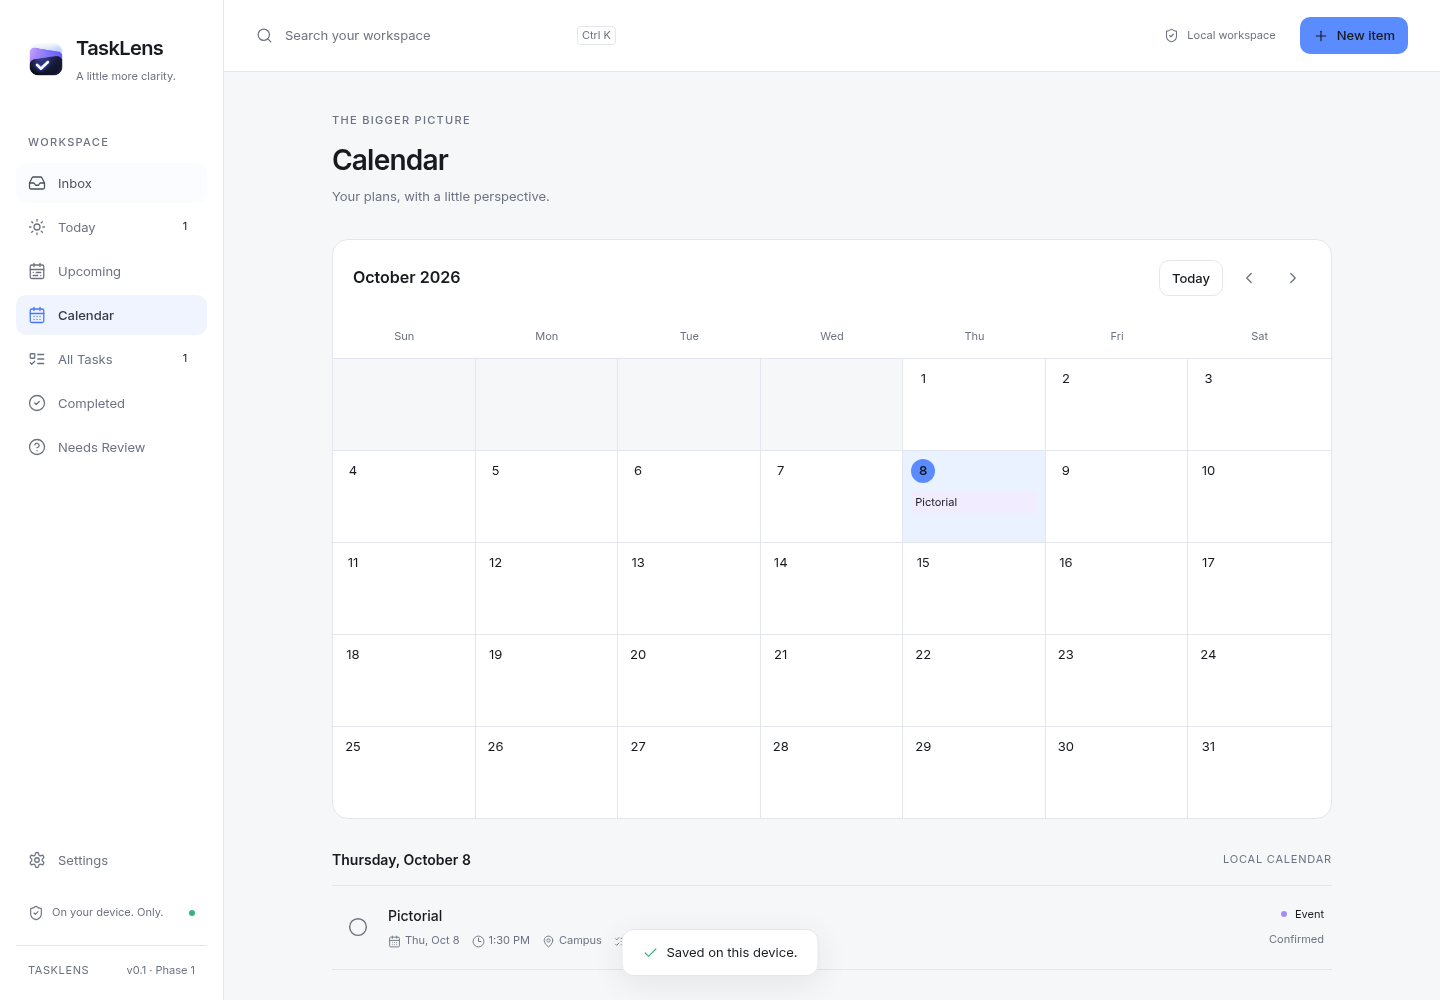
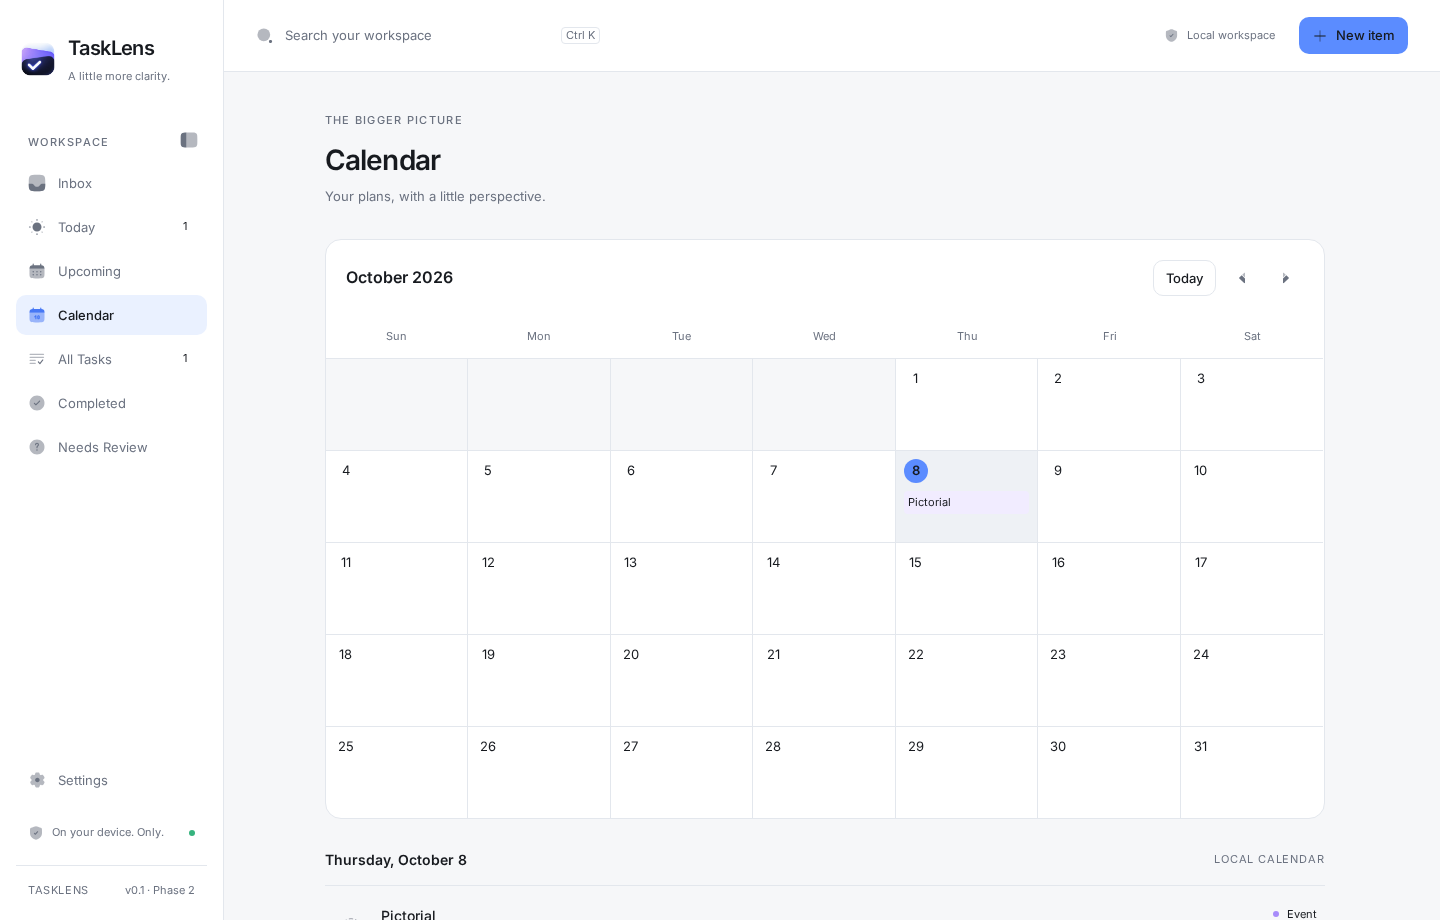
docs: refresh TaskLens overview and current application screenshots

diff --git a/RELEASE_CHECKLIST.md b/RELEASE_CHECKLIST.md
@@ -2,31 +2,31 @@
 
 Base: `374f692afe22de55bb80472035006e67919ddf44`. **NOT READY.** PASS means an executed check; NOT RUN is not acceptance. This checklist is updated with isolated-worktree results below. Historical shared-worktree checks are not substituted for current candidate evidence.
 
-| Gate                                                       | Status  | Evidence / next action                                                                                                                                                                                                     |
-| ---------------------------------------------------------- | ------- | -------------------------------------------------------------------------------------------------------------------------------------------------------------------------------------------------------------------------- |
-| Git history and scoped tree secret scans                   | PASS    | Gitleaks 8.30.1, zero findings; final candidate scan recorded below                                                                                                                                                        |
-| npm dependency audit                                       | PASS    | Vitest 4.1.12 graph, zero vulnerabilities                                                                                                                                                                                  |
-| Cargo dependency security                                  | FAIL    | Zero vulnerabilities but eight unresolved advisory warnings, including unsound glib                                                                                                                                        |
-| TypeScript / ESLint / formatting                           | PASS    | Isolated `npm run check`, `format:check`; Rust fmt also passed                                                                                                                                                             |
-| Unit / Rust / release / asset tests                        | PASS    | 144 unit passed after integration, 2 opt-in skipped; 76 Rust passed, 8 ignored; 2 release and 3 asset tests passed                                                                                                         |
-| Full browser suite                                         | FAIL    | Audit run: 68 passed, 29 failed in 21.1 minutes on port 1492 under concurrent build load. Restart test separately passed on standard port 1420. Other failures unresolved.                                                 |
-| Production frontend build / docs links                     | PASS    | Vite production build; local links in 58 Markdown files validated                                                                                                                                                          |
-| Asset integrity and licensing                              | PASS    | `verify:assets`: 3,062,001,808 bytes, pinned hashes/runtime receipt and dependency checks; notices present in inspected historical RPM                                                                                     |
-| Native Qwen extraction                                     | FAIL    | Real simple-English probe: MODEL_LOAD_FAILED, 206,284 ms load                                                                                                                                                              |
-| Current multilingual extraction                            | NOT RUN | Historical 110/128 checks retained; not current acceptance                                                                                                                                                                 |
-| Real Groq key/requests/latency                             | NOT RUN | Explicit test key unavailable; no production credential borrowed                                                                                                                                                           |
-| Fedora native app and credential acceptance                | PASS    | 12 native app checks passed; synthetic Secret Service write/read/remove/absence across processes passed; real OCR smoke passed. No live extraction.                                                                        |
-| Current native voice/inference and clean installer restart | NOT RUN | Browser/sample save and native sidebar restart do not prove real voice extraction or fresh installation                                                                                                                    |
-| Windows installer / credential / reminders                 | NOT RUN | Windows host unavailable                                                                                                                                                                                                   |
-| Fedora fresh install / uninstall / offline startup         | NOT RUN | Disposable clean system acceptance required                                                                                                                                                                                |
-| Physical touchpad / assistive technology                   | NOT RUN | Device-assisted acceptance required                                                                                                                                                                                        |
-| Production packages                                        | PASS    | Clean audit commit f0f1c60 built RPM (3,132,677,361 bytes) and AppImage (3,024,558,584 bytes), split manifests and SHA256SUMS. Published guided-tour main was integrated later; packages do not match that newer frontend. |
-| Final integrated-commit installer acceptance               | NOT RUN | Rebuild and clean-install final chosen release commit                                                                                                                                                                      |
-| Complete-installer split/reassembly                        | PASS    | Historical 3,020,552,696-byte AppImage split and reassembled; independent SHA256 comparison matched. Current audit installers split and checksummed; current-installer reassembly and Windows user flow not rerun.         |
-| Exact intended release commit CI                           | NOT RUN | Must be green after push; older PR runs do not count                                                                                                                                                                       |
-| Repository protections / private reporting                 | FAIL    | Disabled/unprotected at read-only inspection; owner action                                                                                                                                                                 |
-| Approved native demo video                                 | NOT RUN | See DEMO_CHECKLIST; no recording link approved                                                                                                                                                                             |
-| Publication / signing / release tag                        | NOT RUN | Owner decision; no release published                                                                                                                                                                                       |
+| Gate                                                       | Status          | Evidence / next action                                                                                                                                                                                                     |
+| ---------------------------------------------------------- | --------------- | -------------------------------------------------------------------------------------------------------------------------------------------------------------------------------------------------------------------------- |
+| Git history and scoped tree secret scans                   | PASS            | Gitleaks 8.30.1, zero findings; final candidate scan recorded below                                                                                                                                                        |
+| npm dependency audit                                       | PASS            | Vitest 4.1.12 graph, zero vulnerabilities                                                                                                                                                                                  |
+| Cargo dependency security                                  | FAIL            | Zero vulnerabilities but eight unresolved advisory warnings, including unsound glib                                                                                                                                        |
+| TypeScript / ESLint / formatting                           | PASS            | Isolated `npm run check`, `format:check`; Rust fmt also passed                                                                                                                                                             |
+| Unit / Rust / release / asset tests                        | PASS            | 144 unit passed after integration, 2 opt-in skipped; 76 Rust passed, 8 ignored; 2 release and 3 asset tests passed                                                                                                         |
+| Full browser suite                                         | FAIL            | Audit run: 68 passed, 29 failed in 21.1 minutes on port 1492 under concurrent build load. Restart test separately passed on standard port 1420. Other failures unresolved.                                                 |
+| Production frontend build / docs links                     | PASS            | Vite production build; local links in 58 Markdown files validated                                                                                                                                                          |
+| Asset integrity and licensing                              | PASS            | `verify:assets`: 3,062,001,808 bytes, pinned hashes/runtime receipt and dependency checks; notices present in inspected historical RPM                                                                                     |
+| Native Qwen extraction                                     | FAIL            | Real simple-English probe: MODEL_LOAD_FAILED, 206,284 ms load                                                                                                                                                              |
+| Current multilingual extraction                            | NOT RUN         | Historical 110/128 checks retained; not current acceptance                                                                                                                                                                 |
+| Real Groq key/requests/latency                             | NOT RUN         | Explicit test key unavailable; no production credential borrowed                                                                                                                                                           |
+| Fedora native app and credential acceptance                | PASS            | 12 native app checks passed; synthetic Secret Service write/read/remove/absence across processes passed; real OCR smoke passed. No live extraction.                                                                        |
+| Current native voice/inference and clean installer restart | NOT RUN         | Browser/sample save and native sidebar restart do not prove real voice extraction or fresh installation                                                                                                                    |
+| Windows installer / credential / reminders                 | NOT RUN         | Windows host unavailable                                                                                                                                                                                                   |
+| Fedora fresh install / uninstall / offline startup         | NOT RUN         | Disposable clean system acceptance required                                                                                                                                                                                |
+| Physical touchpad / assistive technology                   | NOT RUN         | Device-assisted acceptance required                                                                                                                                                                                        |
+| Production packages                                        | PASS            | Clean audit commit f0f1c60 built RPM (3,132,677,361 bytes) and AppImage (3,024,558,584 bytes), split manifests and SHA256SUMS. Published guided-tour main was integrated later; packages do not match that newer frontend. |
+| Final integrated-commit installer acceptance               | NOT RUN         | Rebuild and clean-install final chosen release commit                                                                                                                                                                      |
+| Complete-installer split/reassembly                        | PASS            | Historical 3,020,552,696-byte AppImage split and reassembled; independent SHA256 comparison matched. Current audit installers split and checksummed; current-installer reassembly and Windows user flow not rerun.         |
+| Exact intended release commit CI                           | FAIL at 7862ba6 | Quality run 39941856615: Rust/static/security passed; browser 110 passed, 1 guided-tour geometry failure at 600 px. Newer commits require their own green checks.                                                          |
+| Repository protections / private reporting                 | FAIL            | Disabled/unprotected at read-only inspection; owner action                                                                                                                                                                 |
+| Approved native demo video                                 | NOT RUN         | See DEMO_CHECKLIST; no recording link approved                                                                                                                                                                             |
+| Publication / signing / release tag                        | NOT RUN         | Owner decision; no release published                                                                                                                                                                                       |
 
 ## Commands
 

diff --git a/README.md b/README.md
@@ -4,9 +4,21 @@
 
 TaskLens turns screenshots, typed text and locally transcribed voice into editable tasks, events and deadlines. **Capture → Extract → Review → Confirm → Save → Workspace.** Source Trace helps users compare suggestions with their source before confirming them.
 
-![TaskLens Inbox](docs/screenshots/inbox.png)
+![Current TaskLens Inbox with screenshot capture, voice and text controls, and workspace navigation](docs/screenshots/inbox.png)
+
+_Current application UI rendered in Chromium with a fresh synthetic demo profile. These screenshots show the interface and labelled sample workflow; they are not native inference or installer evidence._
 
 **Release status: pre-release candidate, not an approved production release.** Read [the release audit](RELEASE_AUDIT.md), [verification gates](RELEASE_CHECKLIST.md) and [security audit](SECURITY_AUDIT.md). A working sample is not evidence that real AI inference succeeded.
+
+## The TaskLens application
+
+TaskLens brings capture, review and planning into one desktop workspace:
+
+- **Capture:** paste or drop screenshots, type information, record a voice note, or import audio.
+- **Choose processing:** use Local AI or explicitly connect Groq Cloud with your own key. Guided setup explains the privacy boundary before online extraction.
+- **Review before saving:** check source evidence, edit extracted details, resolve uncertain fields, and review multiple activities individually.
+- **Plan locally:** use Today, Upcoming, Calendar, All Tasks, Needs Review and workspace search. Native reminder delivery requires explicit activation.
+- **Make the workspace yours:** collapse the sidebar, use keyboard shortcuts, and replay the 12-step guided tour from Settings.
 
 ## Processing and privacy
 
@@ -56,6 +68,37 @@ No signed public release or approved demonstration video is linked yet. See the 
 5. Find saved items in Today, Upcoming, Calendar, All Tasks or search. Create a task manually with New item at any time.
 
 Ctrl/Cmd K opens search. Ctrl+Shift+Space toggles the persistent sidebar; icon navigation has labels/tooltips. Settings contains AI mode/key management, notifications, appearance, data export and expandable advanced diagnostics. Native reminders require separate activation; OS submission does not prove banner visibility. Autostart, encrypted storage and backup import are unfinished.
+
+## Inside TaskLens
+
+<details>
+<summary>Review a captured announcement</summary>
+
+![TaskLens sample event review with unresolved details and explicit confirmation](docs/screenshots/review.png)
+
+The built-in sample is clearly marked “not AI analysis.” Extracted suggestions stay in Needs Review until the user confirms them.
+
+</details>
+
+<details>
+<summary>See a saved event in Calendar</summary>
+
+![TaskLens Calendar displaying the confirmed synthetic Pictorial event](docs/screenshots/calendar.png)
+
+The example uses the synthetic October 8, 2026 announcement, with the demo clock fixed to that date.
+
+</details>
+
+<details>
+<summary>Manage processing and the Groq connection in Settings</summary>
+
+![TaskLens Settings showing guided-tour replay, Local AI, Groq Cloud and connection controls](docs/screenshots/settings.png)
+
+Browser previews disable native credential actions. The Tauri desktop application provides the native connection and verification controls. No key is shown or stored in these images.
+
+</details>
+
+Screenshot provenance: [capture notes](docs/screenshots/README.md). [Latest main CI](https://github.com/clarkkkkkkk/tasklens-desktopApp/actions).
 
 ## Checks and packaging
 

diff --git a/RELEASE_AUDIT.md b/RELEASE_AUDIT.md
@@ -96,3 +96,11 @@ The full browser run completed with **68 passed / 29 failed** in 21.1 minutes un
 During completion, main advanced to guided-tour commit `a37d2df`. It was merged without conflicts to preserve already published collaborator work and permit a normal main push. The separate release-preparation branch remains excluded. Initial audit/native/package evidence above applies to f0f1c60; the later guided-tour frontend is outside that package's acceptance. Final integrated installers and full native workflows require revalidation.
 
 After integrating published main, TypeScript, ESLint, formatting and **144 unit tests** passed (2 opt-in skipped). New audit RPM inventory was verified to contain both models, eng/ceb/tgl trained data, native runtimes and notices. The final history scan examined 47 commits with scanned changes and found zero leaks; the production frontend scan also found zero leaks. CI for the final pushed commit remains a separate gate; these local checks do not replace it.
+
+## Exact-commit CI result
+
+[Quality run 39941856615](https://github.com/clarkkkkkkk/tasklens-desktopApp/actions/runs/39941856615) tested pushed commit `7862ba64343864cb2453ad2f8f32cc33628f9d61`. Rust security, frontend checks, unit/release/asset tests, npm audit, production build and history/bundle scans passed. Playwright recorded **110 passed / 1 failed** in 3.6 minutes. The failing case checks guided-tour target/card geometry at 600 px. This confirms an unresolved narrow-window verification issue in the newly integrated tour; it must not be dismissed as the earlier alternate-port problem. Local diagnostic traversal of all 12 steps did not reproduce overlap. Native matrix run 39941856575 was still in progress when this evidence was written. No fully successful exact-commit workflow is claimed here. Later README-only commits require their own CI result.
+
+README screenshots were refreshed from current application components with synthetic data and labelled browser-preview provenance. They are not substituted for the pending native demo video.
+
+The 600 px guided-tour browser case subsequently passed a targeted local rerun (all 12 steps plus accessibility checks, 31.6 seconds). This establishes intermittency; it does not erase the failed CI run or establish a fix. The README follow-up changes documentation and screenshots only.

diff --git a/docs/screenshots/README.md b/docs/screenshots/README.md
@@ -1,0 +1,12 @@
+# Application screenshots
+
+Refreshed 23 October 2026 from the actual React application at commit 7862ba6, including the published guided-tour feature. Captured using Chromium at 1440 × 920, Inter fonts, light appearance and reduced motion. No source markup or pixels were altered to fabricate UI.
+
+These are browser UI previews, not native OS, installer or real AI evidence. They use a fresh isolated browser profile and TaskLens’s labelled synthetic sample. The demo clock is fixed to 8 October 2026 to match the sample announcement. No personal task data, API key or live Groq request is involved.
+
+- `inbox.png`: initial Inbox capture controls and navigation.
+- `review.png`: the built-in sample event, explicitly labelled as a sample rather than AI analysis.
+- `calendar.png`: the same event after explicit confirmation and local save.
+- `settings.png`: compact preferences, guided-tour replay and Local/Groq choices. Native credential controls are disabled in a browser preview.
+
+The native acceptance and real inference evidence are recorded separately in [RELEASE_AUDIT.md](../../RELEASE_AUDIT.md).
